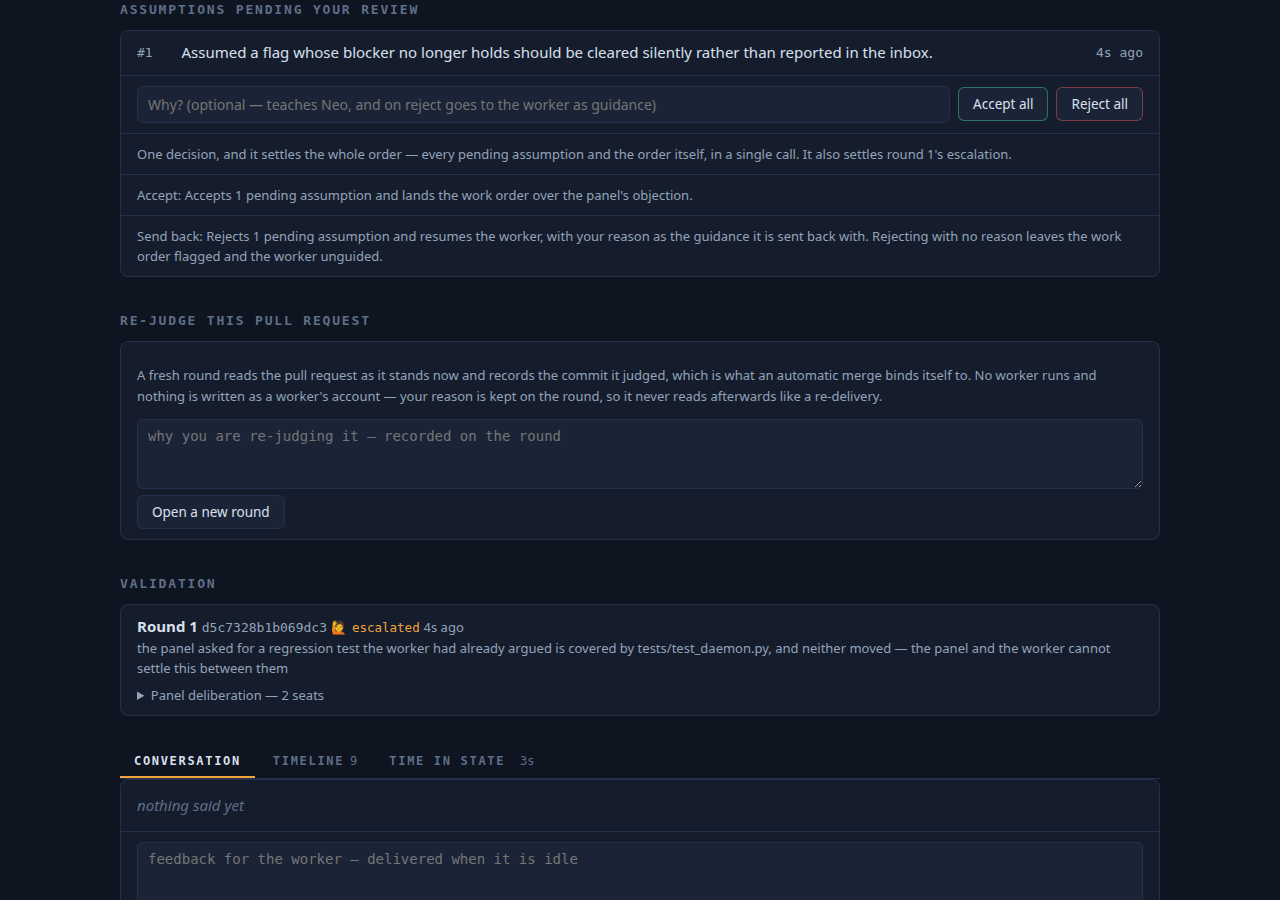
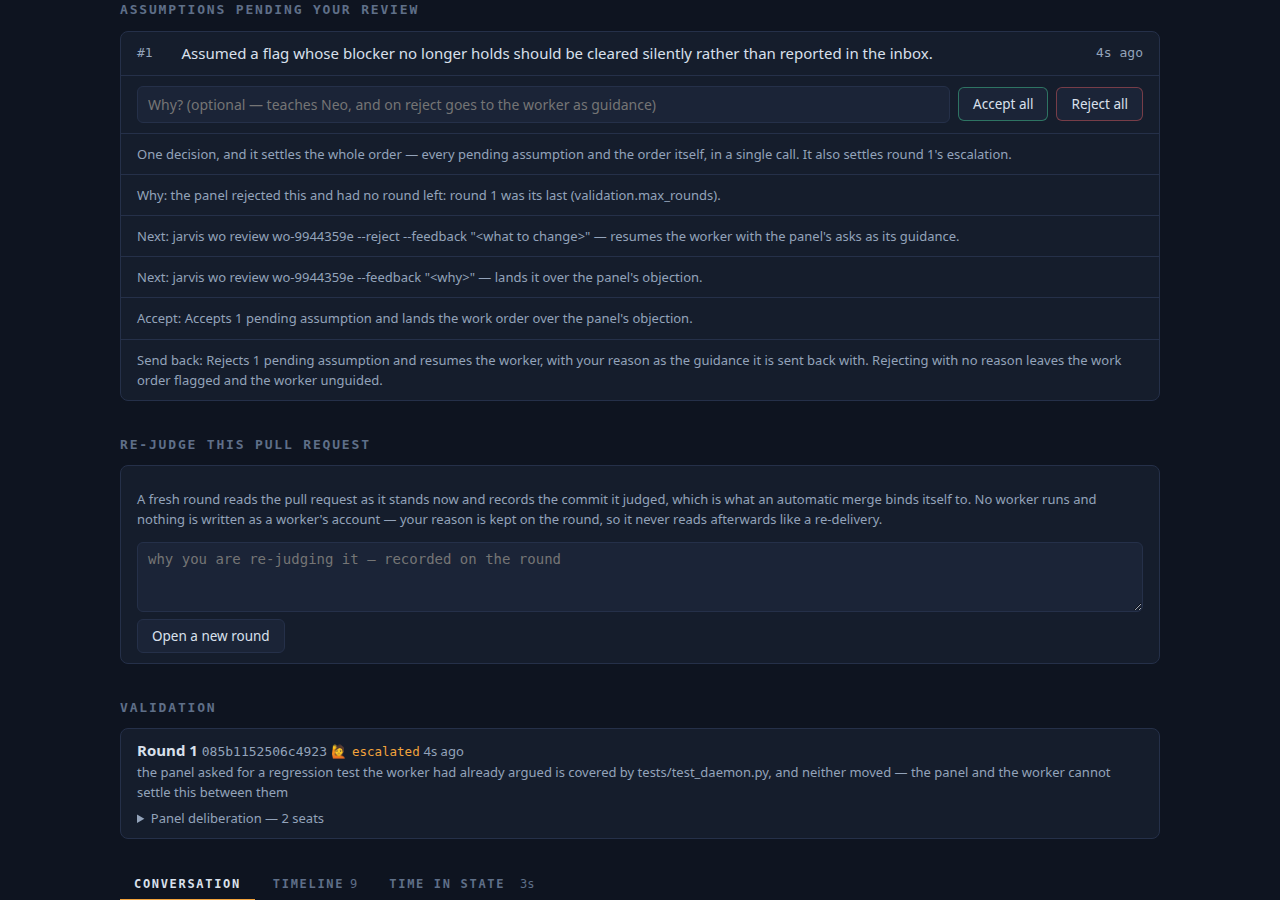
[wo-c8a95ae5] The page header, the timeline and the notification stop saying "gave up"
The screenshot caught it: the work-order page printed "Round 1 gave up —
your judgement" directly above the new "Why: the panel rejected this and
had no round left" row. Three surfaces outside `_review.html` still
hardcoded the word issue #1040 is about.

All three now read the family off one vocabulary — `ops.ESCALATION_VERB`,
plus `ops.ESCALATION_TITLE` for the work-order notification.
`daemon.VALIDATION_ESCALATED_TITLE` stays byte-identical and now serves
`Daemon._escalate_feature` alone, which records no cause.

diff --git a/src/jarvis/ui/templates/work_order.html b/src/jarvis/ui/templates/work_order.html
@@ -503,8 +503,13 @@
    `feature_order.html`, which has no `review_work_order` to post to — spec §5. Rendered
    only when no assumption is pending, which is where the other call site puts it. #}
 {% if review and review.placement == 'validation' %}
-<h2{% if pending == 'validation' %} id="pending"{% endif %}>Round {{ review.round }} gave
-  up — your judgement <a href="#round-{{ review.round }}">round {{ review.round }} →</a></h2>
+{# THE VERB COMES FROM `ops.review_state` — spec
+   docs/superpowers/specs/2026-10-14-an-escalated-round-says-why-and-what-to-run-next.md
+   §3. `gave up` here contradicted the `Why:` row directly below it, which is issue
+   #1040's complaint. #}
+<h2{% if pending == 'validation' %} id="pending"{% endif %}>Round {{ review.round }}
+  {{ review.verb }} — your judgement
+  <a href="#round-{{ review.round }}">round {{ review.round }} →</a></h2>
 <div class="panel">
   {{ review_ui.review_form(project, wo, review) }}
 </div>

diff --git a/tests/test_timeline.py b/tests/test_timeline.py
@@ -708,6 +708,46 @@ def test_a_model_the_record_does_not_have_is_said_so_on_the_timeline_too():
     assert "model not recorded" in entries[0]["label"]
 
 
+def test_an_escalated_round_is_labelled_by_its_family_and_never_gave_up():
+    """Spec 2026-10-14-an-escalated-round-says-why-and-what-to-run-next §1: four of the
+    six `handover` causes are a REJECTION handed over, and "gave up" read as the
+    opposite. A legacy payload with no `cause` field promises nothing."""
+    from jarvis import ops
+    from jarvis.timeline import _describe
+
+    handover, _ = _describe("validation_escalated",
+                            {"round": 3, "cause": ops.ESCALATION_USER_REWORK_CEILING})
+    unjudged, _ = _describe("validation_escalated",
+                            {"round": 1, "cause": ops.ESCALATION_NO_VERDICT})
+    legacy, reason = _describe("validation_escalated",
+                               {"round": 1, "reason": "no test covers the change"})
+
+    assert handover == "Validation was rejected and handed to you"
+    assert unjudged == "Validation could not be judged — over to you"
+    assert legacy == "Validation was escalated — over to you"
+    assert reason == "no test covers the change"
+    for label in (handover, unjudged, legacy):
+        assert "gave up" not in label
+
+
+def test_the_timelines_families_are_the_os_s_own_and_its_verbs_too():
+    """`timeline` imports nothing from `jarvis`, so the literals it holds are pinned
+    here: a cause added to `ops.ESCALATION_FAMILY` without a label would otherwise read
+    as the legacy sentence in production."""
+    from jarvis import ops
+    from jarvis.timeline import (ESCALATION_HANDOVER, ESCALATION_UNJUDGED, _describe)
+
+    by_family: dict[str, set[str]] = {}
+    for cause, family in ops.ESCALATION_FAMILY.items():
+        by_family.setdefault(family, set()).add(cause)
+
+    assert ESCALATION_HANDOVER == by_family["handover"]
+    assert ESCALATION_UNJUDGED == by_family["unjudged"]
+    for cause, family in ops.ESCALATION_FAMILY.items():
+        label, _ = _describe("validation_escalated", {"round": 1, "cause": cause})
+        assert ops.ESCALATION_VERB[family] in label, cause
+
+
 def test_a_dropped_ruling_is_not_narrated_as_neo_declining():
     """Spec §5.1's escalation carries `dropped` when the OS HAD a ruling and threw it
     away because the state moved under it. "Left with you" alone would read as Neo

diff --git a/src/jarvis/timeline.py b/src/jarvis/timeline.py
@@ -27,6 +27,15 @@ import json
 import time
 from typing import Any
 
+#: `ops.ESCALATION_FAMILY`'s two written families, as the literals this module is allowed
+#: to hold — it imports nothing from `jarvis`, so tests/test_timeline.py pins these
+#: against the dict rather than a comment promising they match.
+ESCALATION_HANDOVER = frozenset({
+    "rounds_spent", "user_rework_ceiling", "rebinds_spent", "bounce_exhausted",
+    "nothing_to_judge", "repeat_submission"})
+ESCALATION_UNJUDGED = frozenset({
+    "no_verdict", "validator_unreachable", "prompt_refused"})
+
 # Plumbing: how a message got carried, which session was bound, when a turn ended.
 # None of it tells the user anything about the work itself.
 DEBUG_KINDS = frozenset({
@@ -716,7 +725,20 @@ def _describe(kind: str, p: dict[str, Any]) -> tuple[str, str]:
                 f"{p.get('after_round')} asked about changed",
                 f"unchanged since that round: {cited}" if cited else "")
     if kind == "validation_escalated":
-        return ("Validation gave up — over to you", p.get("reason") or "")
+        # WHICH FAMILY, not merely that a round escalated: "gave up" read as "nobody
+        # judged this" for the six causes that are a REJECTION being handed over (spec
+        # docs/superpowers/specs/2026-10-14-an-escalated-round-says-why-and-what-to-run-next.md
+        # §1, issue #1040). The verbs are `ops.ESCALATION_VERB`'s, quoted as literals
+        # like "user_rework" above because this module imports nothing from `jarvis`;
+        # tests/test_timeline.py pins both sets against `ops.ESCALATION_FAMILY`. A
+        # payload written before the field existed has no cause and says so.
+        cause = str(p.get("cause") or "")
+        if cause in ESCALATION_HANDOVER:
+            return ("Validation was rejected and handed to you", p.get("reason") or "")
+        if cause in ESCALATION_UNJUDGED:
+            return ("Validation could not be judged — over to you",
+                    p.get("reason") or "")
+        return ("Validation was escalated — over to you", p.get("reason") or "")
     if kind == "validation_void":
         # NOT a give-up and NOT a verdict, and the label has to say both: nobody judged
         # this, and nobody needs to. A reader who takes it for an escalation goes looking

diff --git a/tests/test_validation_loop.py b/tests/test_validation_loop.py
@@ -26,8 +26,7 @@ import pytest
 from jarvis import claude_cli, ops, validation
 from jarvis.catalog import load_catalog
 from jarvis.central_store import CentralStore
-from jarvis.daemon import (VALIDATION_ESCALATED_TITLE, VALIDATION_REASON_CHARS,
-                          VALIDATION_REASON_CUT, Daemon)
+from jarvis.daemon import VALIDATION_REASON_CHARS, VALIDATION_REASON_CUT, Daemon
 from jarvis.invariants import VALIDATION_STUCK_BLOCKER, true_blockers
 from jarvis.project_store import VALIDATOR_SEATS, ProjectStore
 from jarvis.testing import make_git_project
@@ -1578,7 +1577,11 @@ def test_a_give_up_notifies_and_a_rejection_stays_silent(fleet):
 
     rows = _outbox(fleet)
     assert len(rows) == 1
-    assert rows[0]["title"] == VALIDATION_ESCALATED_TITLE.format(unit=wo["id"], n=2)
+    # The title names the FAMILY now: spec
+    # 2026-10-14-an-escalated-round-says-why-and-what-to-run-next §3. A rejection with
+    # the budget spent is `handover`; `VALIDATION_ESCALATED_TITLE` serves feature orders.
+    assert rows[0]["title"] == ops.ESCALATION_TITLE.format(
+        unit=wo["id"], n=2, verb=ops.ESCALATION_VERB["handover"])
     assert rows[0]["body"] == "no test covers the change", (
         "the body is the round's own reason — the only text that says why")
     assert (rows[0]["level"], rows[0]["source"], rows[0]["wo_id"]) == (
@@ -1603,7 +1606,8 @@ def test_the_give_up_notification_reaches_the_central_inbox(fleet):
     finally:
         central.close()
     assert len(rows) == 1
-    assert rows[0]["title"] == VALIDATION_ESCALATED_TITLE.format(unit=wo["id"], n=1)
+    assert rows[0]["title"] == ops.ESCALATION_TITLE.format(
+        unit=wo["id"], n=1, verb=ops.ESCALATION_VERB["handover"])
     assert rows[0]["body"] == "the change is untested"
     assert (rows[0]["level"], rows[0]["project"]) == ("warning", "proj_a")
 
@@ -1619,7 +1623,8 @@ def test_the_escalations_that_never_call_the_validator_notify_too(fleet):
 
     rows = _outbox(fleet)
     assert len(rows) == 1
-    assert rows[0]["title"] == VALIDATION_ESCALATED_TITLE.format(unit=wo["id"], n=1)
+    assert rows[0]["title"] == ops.ESCALATION_TITLE.format(
+        unit=wo["id"], n=1, verb=ops.ESCALATION_VERB["handover"])
     assert "changes no files" in rows[0]["body"]
 
 

diff --git a/src/jarvis/ops.py b/src/jarvis/ops.py
@@ -5451,7 +5451,7 @@ def escalate_validation_round(store: ProjectStore, wo: dict[str, Any], round_id:
     `close_validation_round` and `COUNTED_VALIDATION_OUTCOMES` are untouched, because the
     cause is not an outcome (Neo 1713).
     """
-    from .daemon import VALIDATION_ESCALATED_TITLE, escalation_body
+    from .daemon import escalation_body
     from .invariants import VALIDATION_STUCK_BLOCKER
 
     wo_id = wo["id"]
@@ -5462,7 +5462,9 @@ def escalate_validation_round(store: ProjectStore, wo: dict[str, Any], round_id:
     store.set_status(wo_id, "needs_review")
     store.flag_attention(wo_id, VALIDATION_STUCK_BLOCKER)
     store.add_notification(
-        title=VALIDATION_ESCALATED_TITLE.format(unit=wo_id, n=n),
+        # Spec 2026-10-14-an-escalated-round-says-why-and-what-to-run-next §3.
+        title=ESCALATION_TITLE.format(
+            unit=wo_id, n=n, verb=ESCALATION_VERB[ESCALATION_FAMILY[cause]]),
         body=escalation_body(reason), level="warning", wo_id=wo_id,
         source="validation",
     )
@@ -7393,6 +7395,12 @@ ESCALATION_VERB: dict[str, str] = {
     "unjudged": "could not be judged",
     "unrecorded": "was escalated",
 }
+
+#: The WORK ORDER give-up notification, worded off the same three verbs — spec §3's rule
+#: that one vocabulary serves every surface. `daemon.VALIDATION_ESCALATED_TITLE` stays as
+#: it is and now serves `Daemon._escalate_feature` alone: a feature-order escalation
+#: records no cause (spec §Not covered), so it has no family to name.
+ESCALATION_TITLE = "{unit} — round {n} {verb}"
 
 #: `proof` on `CARRY_REFUSED_EVENT`, one value per condition — the `automerge` hold-code
 #: discipline, so a reader can tell "someone resolved a conflict" from "the daemon could

diff --git a/tests/test_validation_surfaces.py b/tests/test_validation_surfaces.py
@@ -671,6 +671,25 @@ def test_a_no_pr_escalated_order_is_never_pointed_at_validation_force(
     assert any("--reject" in line for line in json.loads(raw)["review"]["next"])
 
 
+@pytest.mark.parametrize("cause", CAUSES)
+def test_the_give_up_notification_names_the_family_and_never_gave_up(
+        jarvis_home, catalog_file, project, cause):
+    """One vocabulary on every surface — `ops.ESCALATION_VERB` (spec §3). The title
+    `Daemon._escalate_feature` still uses is unchanged: a feature escalation records no
+    cause and has no family to name."""
+    wo = escalated(project, cause=cause)
+    store = ProjectStore(project)
+    try:
+        titles = [row["title"] for row in store.unrouted_notifications()
+                  if row["source"] == "validation"]
+    finally:
+        store.close()
+
+    verb = ops.ESCALATION_VERB[ops.ESCALATION_FAMILY[cause]]
+    assert titles == [ops.ESCALATION_TITLE.format(unit=wo["id"], n=1, verb=verb)]
+    assert "gave up" not in titles[0]
+
+
 def test_a_legacy_escalated_event_with_no_cause_field_reads_as_unrecorded(
         jarvis_home, catalog_file, project):
     """Spec §1: an event written before this change lacks the field, and guessing from

diff --git a/tests/test_ui.py b/tests/test_ui.py
@@ -3241,6 +3241,9 @@ def test_the_page_still_renders_exactly_one_review_form(client, project):
     assert page.count(f'action="/wo/proj_a/{wo["id"]}/review"') == 1
     assert "the panel rejected this and had no round left" in flat
     assert f"jarvis wo review {wo['id']} --reject" in flat
+    # The HEADER above those rows, which contradicted them — issue #1040.
+    assert f"Round 1 {ops.ESCALATION_VERB['handover']} — your judgement" in flat
+    assert "Round 1 gave up" not in flat
 
 
 def test_the_page_of_a_no_pr_order_never_names_validation_force(client, project):
